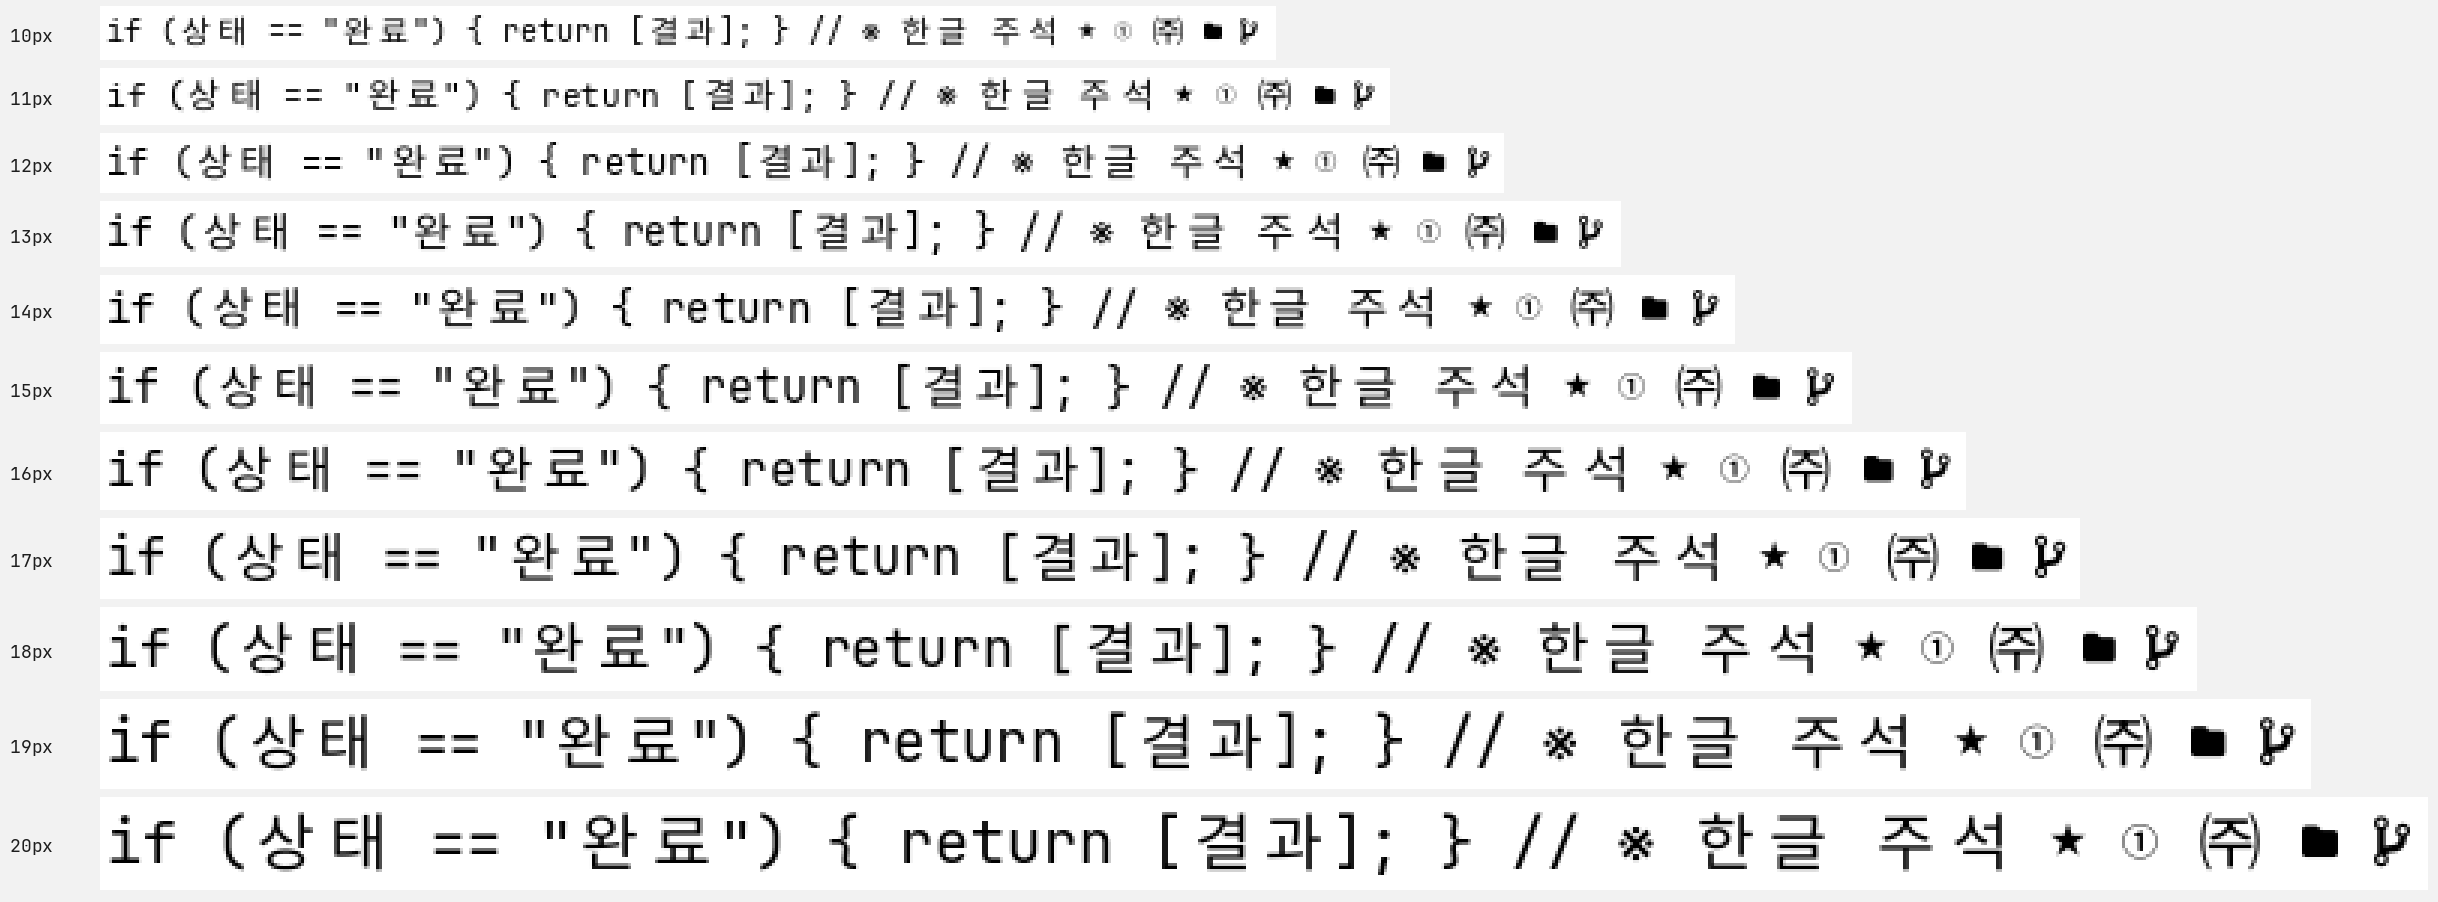
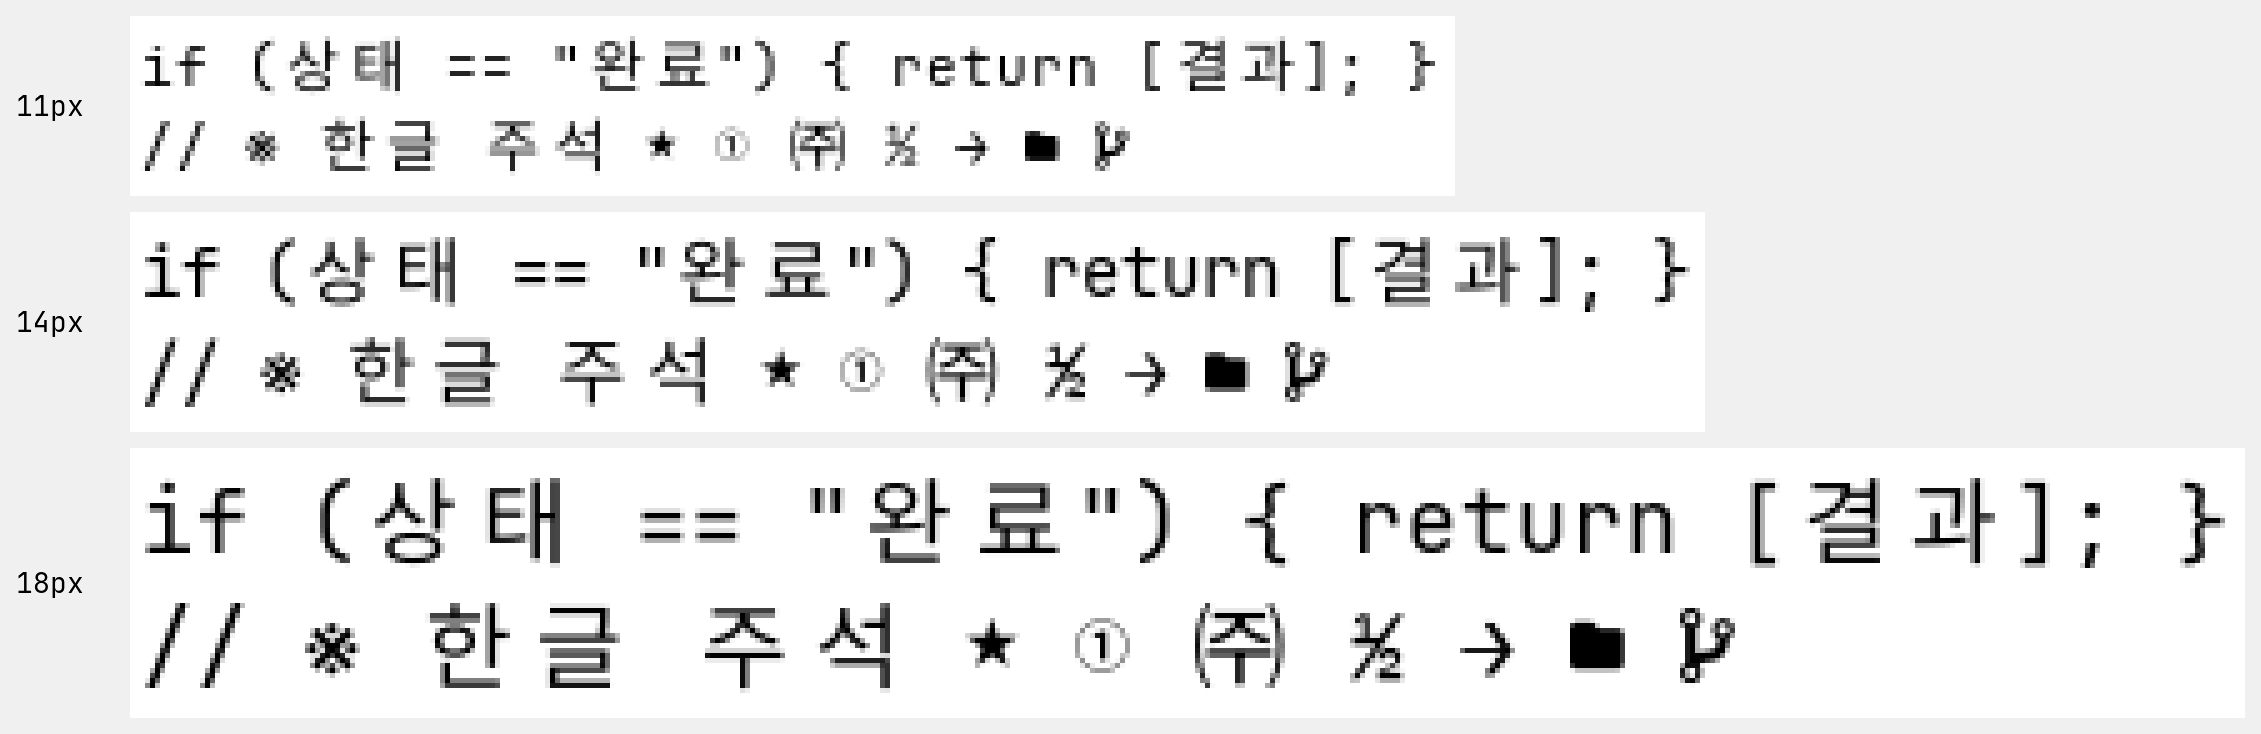
Show 11, 14 and 18 px samples for both families in the README
Two lines per size at five times, one image for Hangyeol Code and one
for Hangyeol Code Narrow.

diff --git a/README.md b/README.md
@@ -8,9 +8,9 @@
 KS X 1001 특수문자는 Pretendard와 Noto Sans KR에서 가져왔습니다. 칸 너비를 10% 줄인
 Hangyeol Code Narrow도 같은 소스에서 함께 만듭니다. SIL Open Font License 1.1로 배포합니다.
 
-![10–20px 렌더링 예시](assets/sample.png)
+![Hangyeol Code 11·14·18px 렌더링 예시](assets/sample.png)
 
-*FreeType으로 힌팅을 적용해 렌더링하고 3배 확대한 이미지입니다.*
+*11·14·18px을 FreeType으로 힌팅을 적용해 렌더링하고 5배 확대한 이미지입니다.*
 
 [English](README.en.md)
 
@@ -44,6 +44,8 @@ Hangyeol Code Narrow도 같은 소스에서 함께 만듭니다. SIL Open Font L
 
 칸 너비를 10% 줄인 판입니다. 반각은 540, 전각은 1080 단위이고 줄 높이는 같습니다. 같은
 너비의 창에 한 줄로 약 11% 더 많은 글자가 들어갑니다. 버전은 Hangyeol Code와 함께 갑니다.
+
+![Hangyeol Code Narrow 11·14·18px 렌더링 예시](assets/sample-narrow.png)
 
 - **위치:** 글자는 칸 가운데를 기준으로 제자리를 지킵니다. 한쪽으로 치우쳐 여백이 모자란
   글자만 옆으로 조금 옮깁니다.

diff --git a/README.en.md b/README.en.md
@@ -9,9 +9,9 @@ Pretendard, and the remaining KS X 1001 symbols from Pretendard and Noto Sans KR
 Narrow, the same font on cells 10% narrower, is built from the same sources in the same run.
 Licensed under the SIL Open Font License 1.1.
 
-![Rendering at 10–20 px](assets/sample.png)
+![Hangyeol Code at 11, 14 and 18 px](assets/sample.png)
 
-*Rendered with FreeType hinting and enlarged three times.*
+*11, 14 and 18 px rendered with FreeType hinting, enlarged five times.*
 
 [한국어](README.md)
 
@@ -48,6 +48,8 @@ Licensed under the SIL Open Font License 1.1.
 The same font with cells 10% narrower: 540 units for half-width and 1080 for full-width, with
 the same line height. About 11% more characters fit on a line of the same width. Its version
 always matches Hangyeol Code.
+
+![Hangyeol Code Narrow at 11, 14 and 18 px](assets/sample-narrow.png)
 
 - **Position:** glyphs keep their place relative to the center of their cell; only glyphs that
   lean to one side and lack margin move a little.
